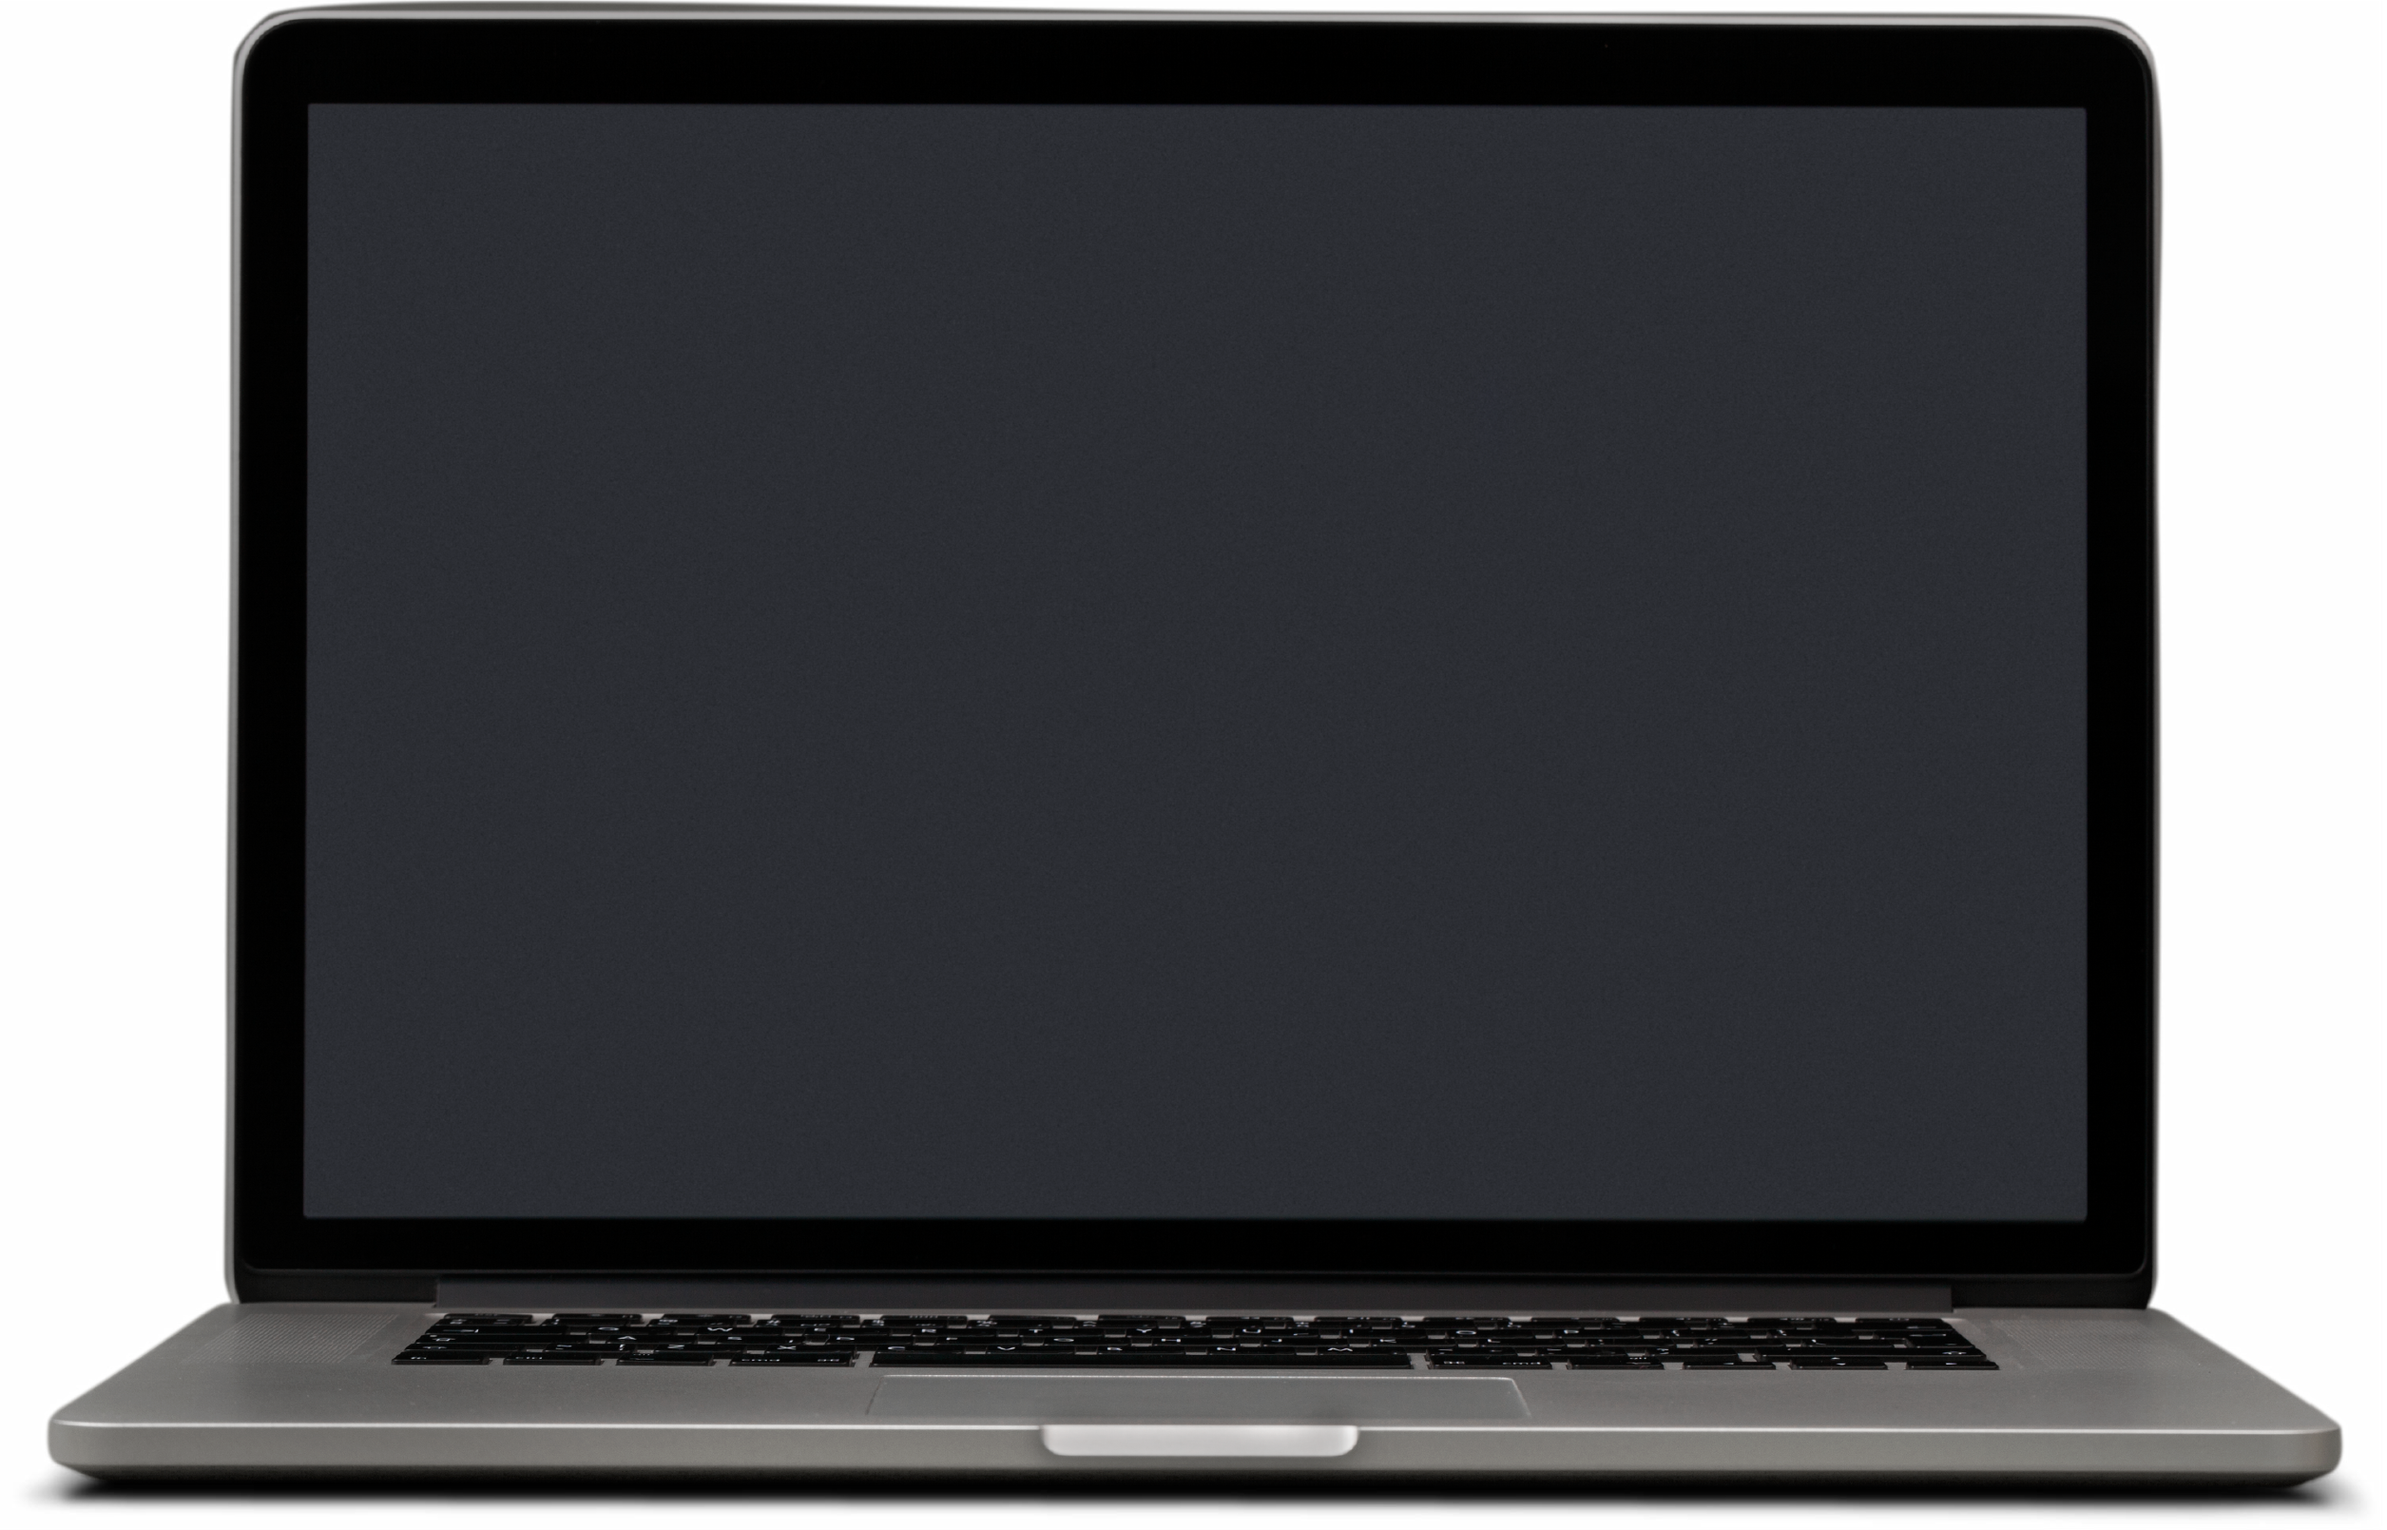
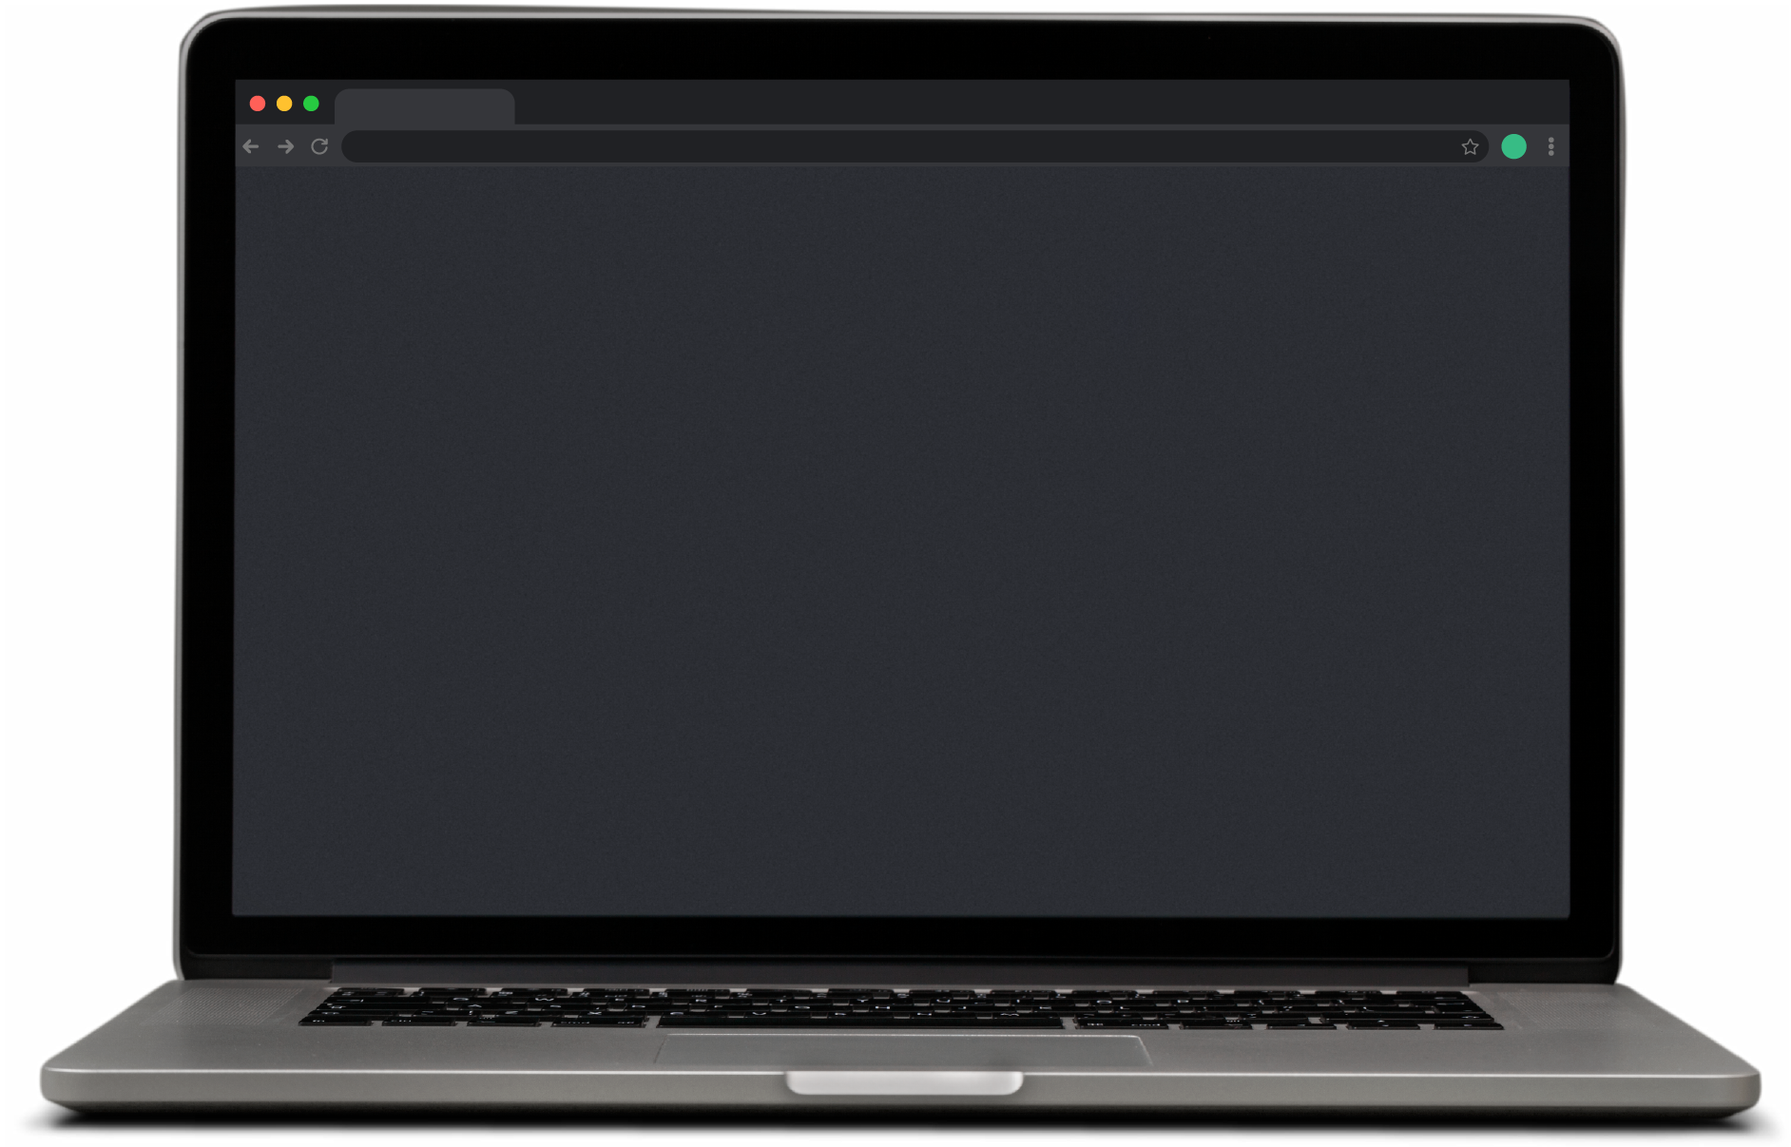
Souce Refactoring

Changed region(s): [[0.0, 0.0, 0.9851, 1.0], [0.8312, 0.0307, 0.9236, 0.8583], [0.0616, 0.8583, 0.0924, 0.889]]

diff --git a/assets/js/animations.js b/assets/js/animations.js
@@ -272,37 +272,6 @@ document.addEventListener('DOMContentLoaded', () => {
       };
     }
 
-    // ポートフォリオモックの3D効果
-    const portfolioMock = document.querySelector('.portfolio-mock');
-    if (portfolioMock && window.innerWidth >= 1024) {
-      portfolioMock.addEventListener('mousemove', (e) => {
-        const rect = portfolioMock.getBoundingClientRect();
-        const x = e.clientX - rect.left;
-        const y = e.clientY - rect.top;
-        const centerX = rect.width / 2;
-        const centerY = rect.height / 2;
-        const rotateX = (y - centerY) / 20;
-        const rotateY = (centerX - x) / 20;
-
-        gsap.to(portfolioMock, {
-          rotationX: rotateX,
-          rotationY: rotateY,
-          transformPerspective: 1000,
-          duration: 0.5,
-          ease: 'power2.out'
-        });
-      });
-
-      portfolioMock.addEventListener('mouseleave', () => {
-        gsap.to(portfolioMock, {
-          rotationX: 0,
-          rotationY: 0,
-          duration: 0.5,
-          ease: 'power2.out'
-        });
-      });
-    }
-
     // パララックス効果
     gsap.utils.toArray('section').forEach((section, index) => {
       if (index % 2 === 0) {
@@ -478,6 +447,9 @@ document.addEventListener('DOMContentLoaded', () => {
       });
     };
 
+    const MIN_LOADER_MS = 3000;
+    const startTime = Date.now();
+
     Promise.all([
       drawLogoAnimation(),
       new Promise((resolve) => {
@@ -487,7 +459,15 @@ document.addEventListener('DOMContentLoaded', () => {
         }
         window.addEventListener('load', resolve, { once: true });
       })
-    ]).then(hideLoader);
+    ]).then(() => {
+      const elapsed = Date.now() - startTime;
+      const waitMs = Math.max(0, MIN_LOADER_MS - elapsed);
+      if (waitMs > 0) {
+        setTimeout(hideLoader, waitMs);
+      } else {
+        hideLoader();
+      }
+    });
   }
 
   // ============================================

diff --git a/assets/css/style.css b/assets/css/style.css
@@ -591,11 +591,6 @@ header {
   display: inline-block;
 }
 
-/* ポートフォリオモック3D効果 */
-.portfolio-mock {
-  transform-style: preserve-3d;
-  perspective: 1000px;
-}
 
 /* dialog */
 .dialog-overlay {

diff --git a/footer.php b/footer.php
@@ -24,7 +24,7 @@
     </ul>
   </div>
   <div class="copy">
-    <p>&copy; Gloria Design Works</p>
+    <p>&copy; <?php echo date('Y'); ?> Gloria Design Works</p>
   </div>
 </footer>
 <!-- JS -->
